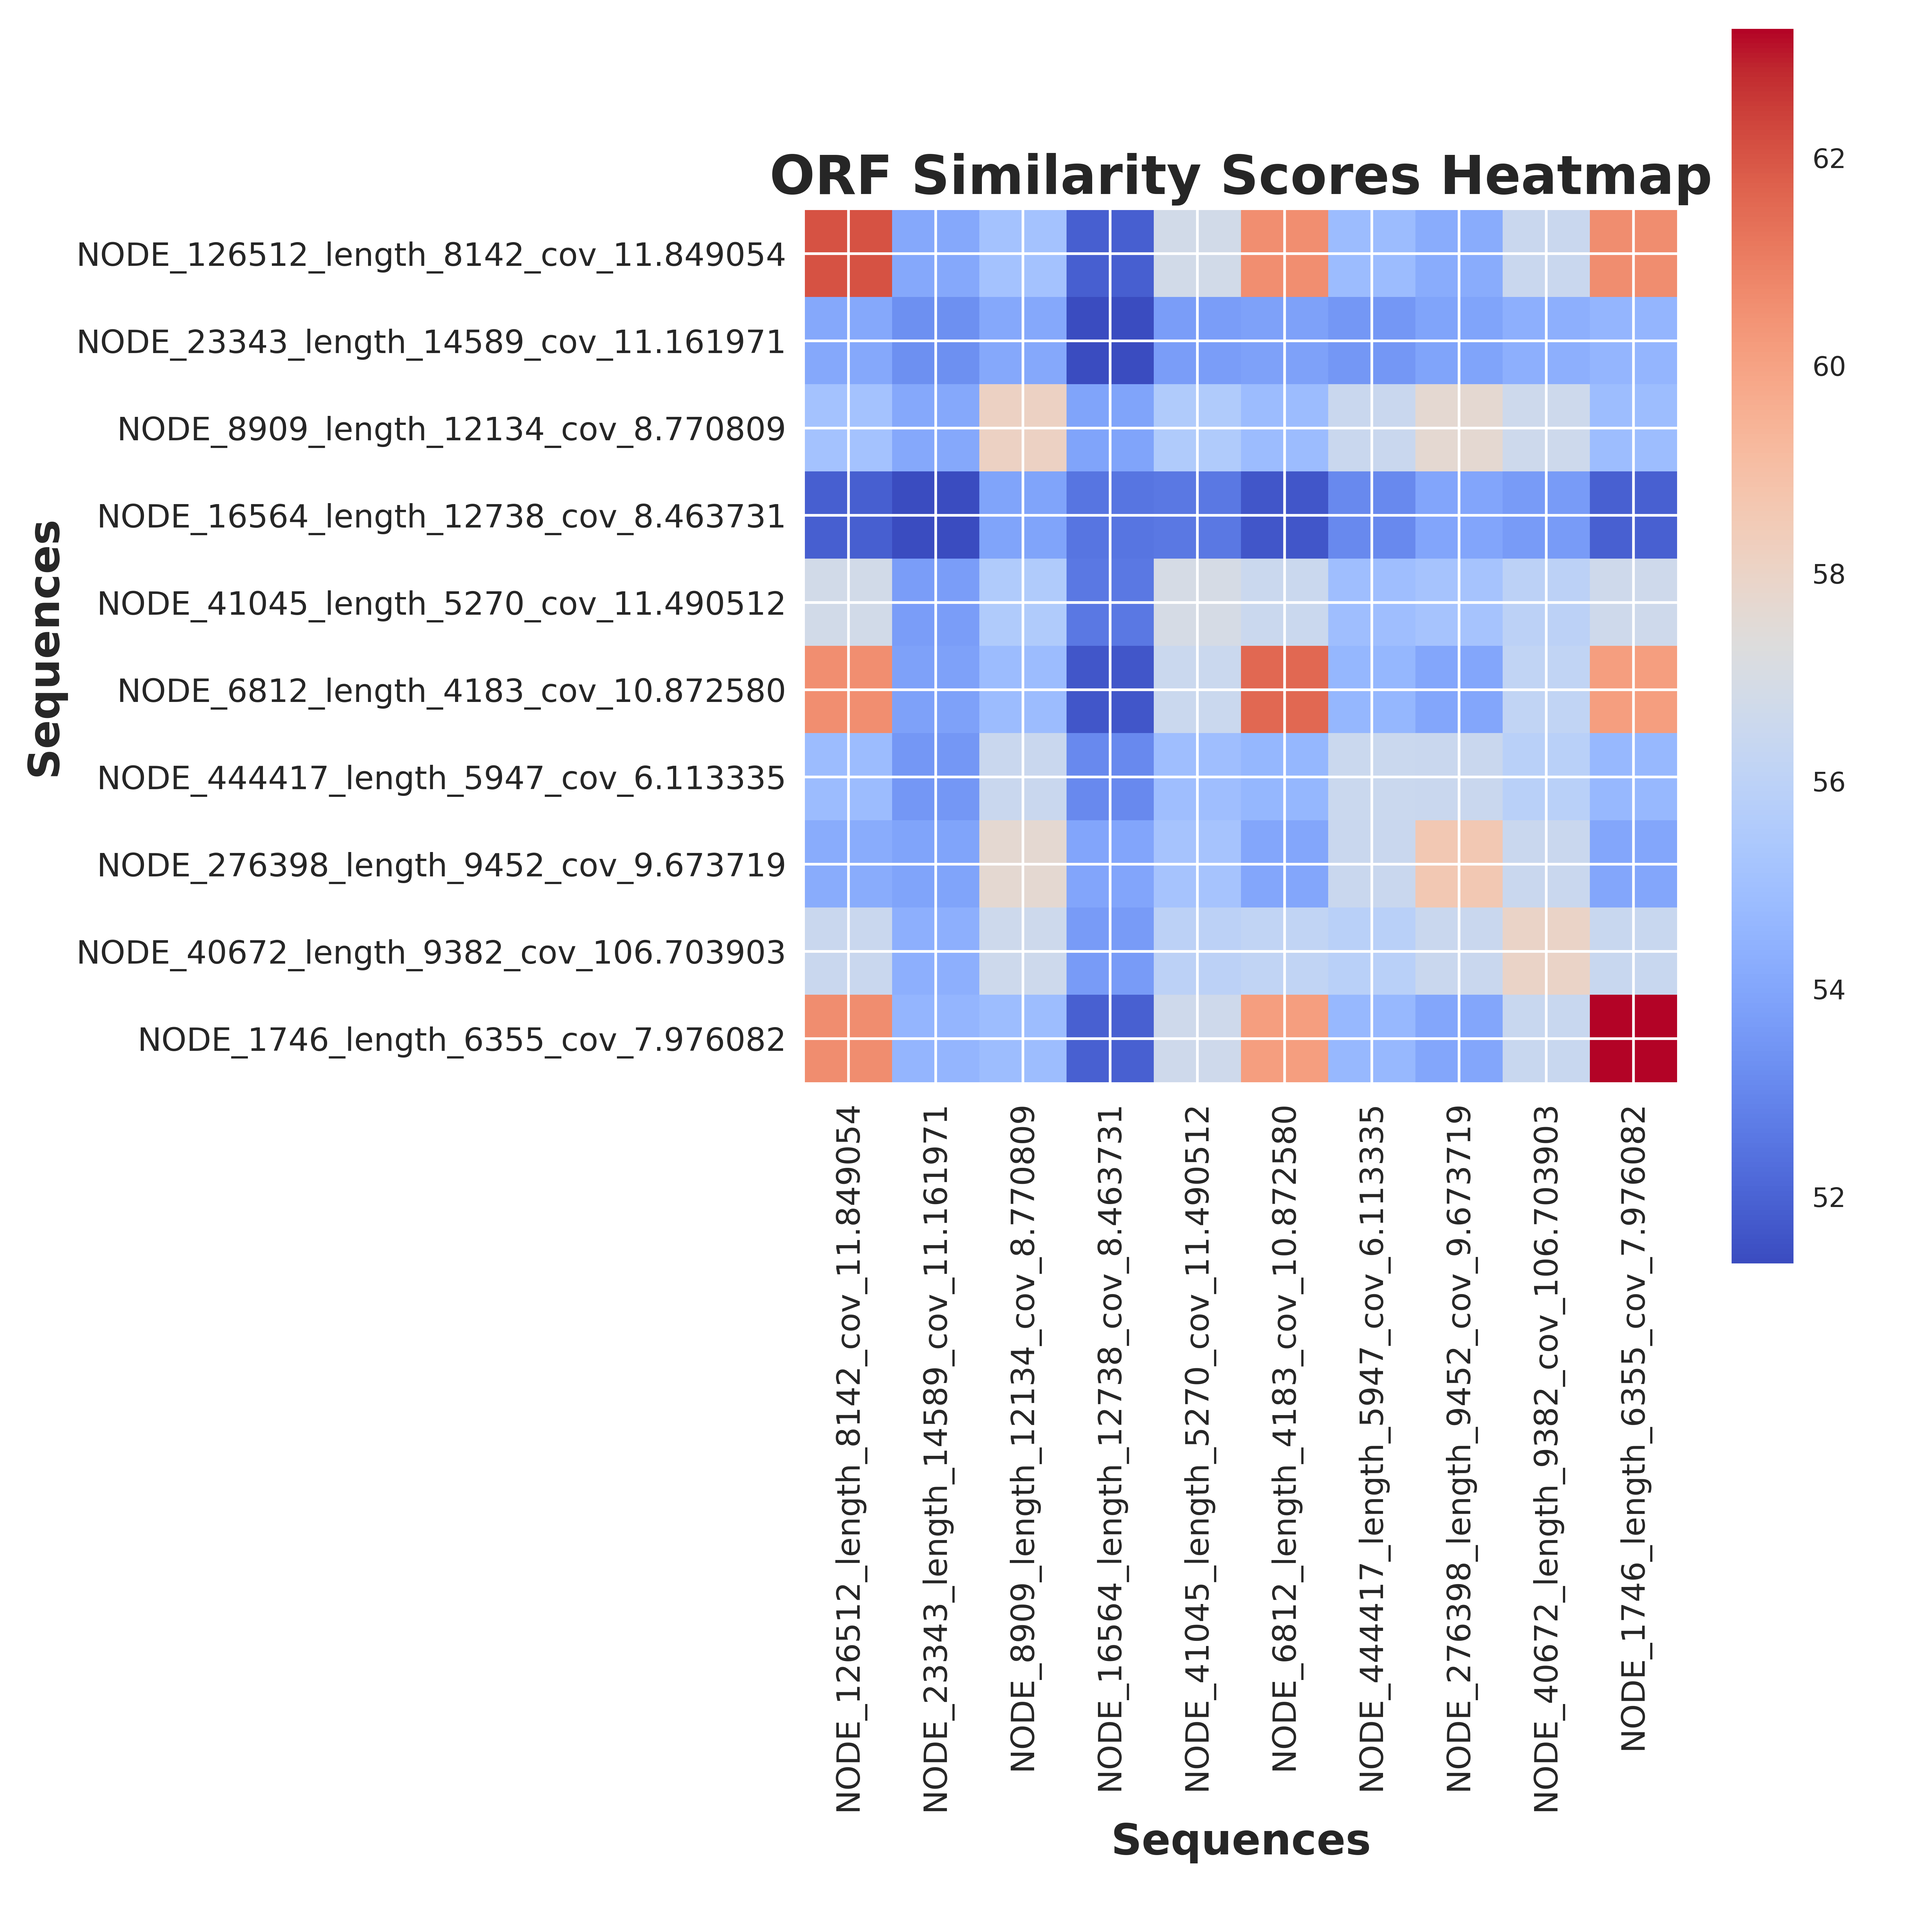
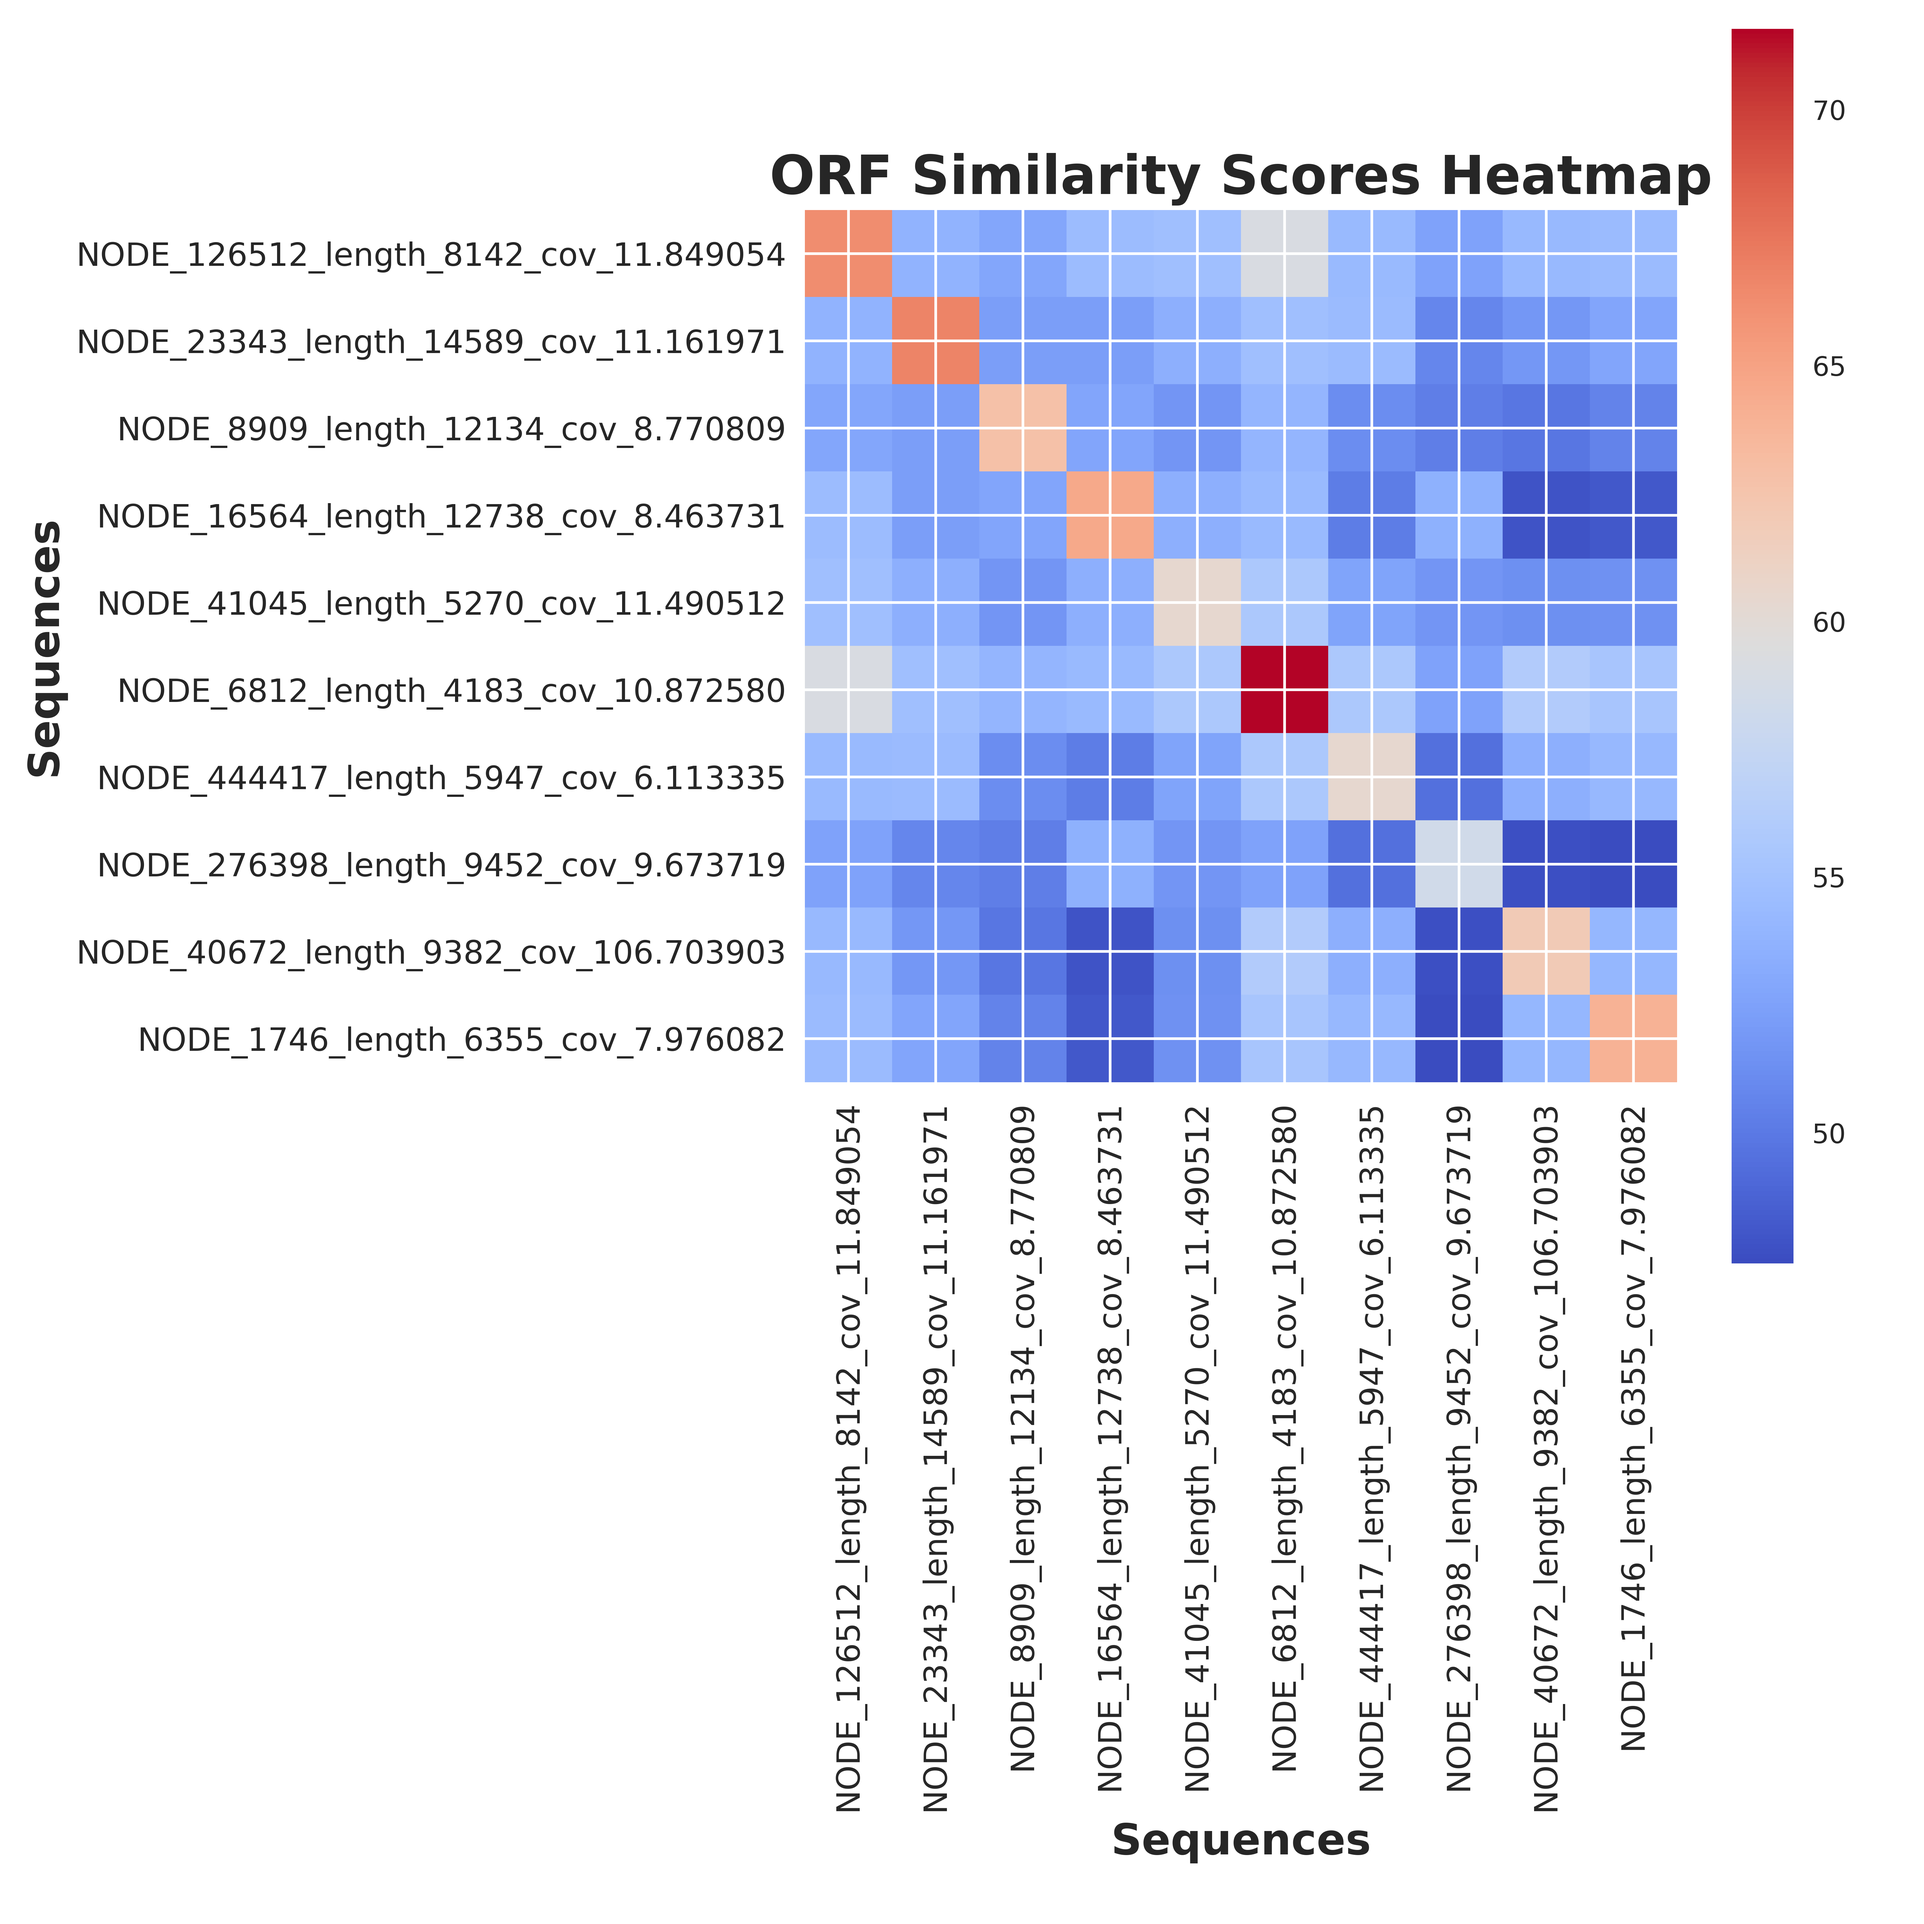
updates (version 0.1 still)

Changed region(s): [[0.4052, 0.0935, 0.8727, 0.561]]

diff --git a/geneResilience/geneFinder.py b/geneResilience/geneFinder.py
@@ -61,7 +61,7 @@ class Orfs:
       - Returns a list of ORF objects
     '''
     orfs = [] # orfs will contain an object of ORFs which contain index, length and sequence
-    dnaseq = dnaseq.replace('_', '')
+    #dnaseq = dnaseq.replace('_', '')
     start_codons = 'A.?TG|A.?_TG|GTG|TTG|ATG' #regex expression that takes into account some mut. starts
     #start_codons = 'ATG' #regex expression that takes into account some mut. starts
     stop_codons = 'TAA|TAG|TGA' #regex expression that takes into account stop codons (non mutated)
@@ -81,36 +81,6 @@ class Orfs:
               orfs.append(Orfs((starts[0]+frame, stop_pos), curr_start_frame[:stops.end()], (stop_pos - starts[0]+frame)))
             break
 
-    # start_pos = [(m.start(), m.end()) for m in re.finditer(start_codons, dnaseq)] # find the indices of ALL start codons
-    # stop_pos = [(m.start(), m.end()) for m in re.finditer(stop_codons, dnaseq)] # find the indices of ALL stop codons
-    # #print(sorted(stop_pos, key=lambda x:x[0], reverse=True))
-    # last_saved_stop = 0
-    # last_saved_start = 0
-
-    # # lists must be reversed in order to pair mutated start codons
-    # for stops in sorted(stop_pos, key=lambda x:x[0], reverse=True):
-    #   stop_end_i = stops[1]
-    #   stop_i = stops[0]
-
-    #   for starts in sorted(start_pos, key=lambda x:x[0], reverse=True):
-    #     start_i = starts[0]
-    #     start_end_i = starts[1]
-
-    #     curr_len = stop_end_i - start_i # determine length of potential ORF
-    #     if stop_i > start_i and stop_i > start_end_i: # check conditions of found oRFs
-          
-    #       if curr_len > minLength: #check for length status
-    #         orfs.insert(0, Orfs((start_i, stop_end_i), dnaseq[start_i:stop_end_i], curr_len))
-    #         last_saved_start = starts
-    #         break
-    #       else:
-    #         last_saved_start = starts
-    #         break
-
-    #   try: # remove a start codon from the start codon position list
-    #     start_pos.remove(last_saved_start)
-    #   except:
-    #     pass
     return orfs
 
 class AlignAllOrfs:

diff --git a/geneResilience/geneResilience.py b/geneResilience/geneResilience.py
@@ -71,7 +71,7 @@ def main(inOpts = None):
         # for record in align:
         #   print(record.seq, file=out)
 
-
+    
 
     # alignSeqs = nga.alignTest(sequences, headers, pipeLine=False)
     # alignSeqs.returnAlignments()
